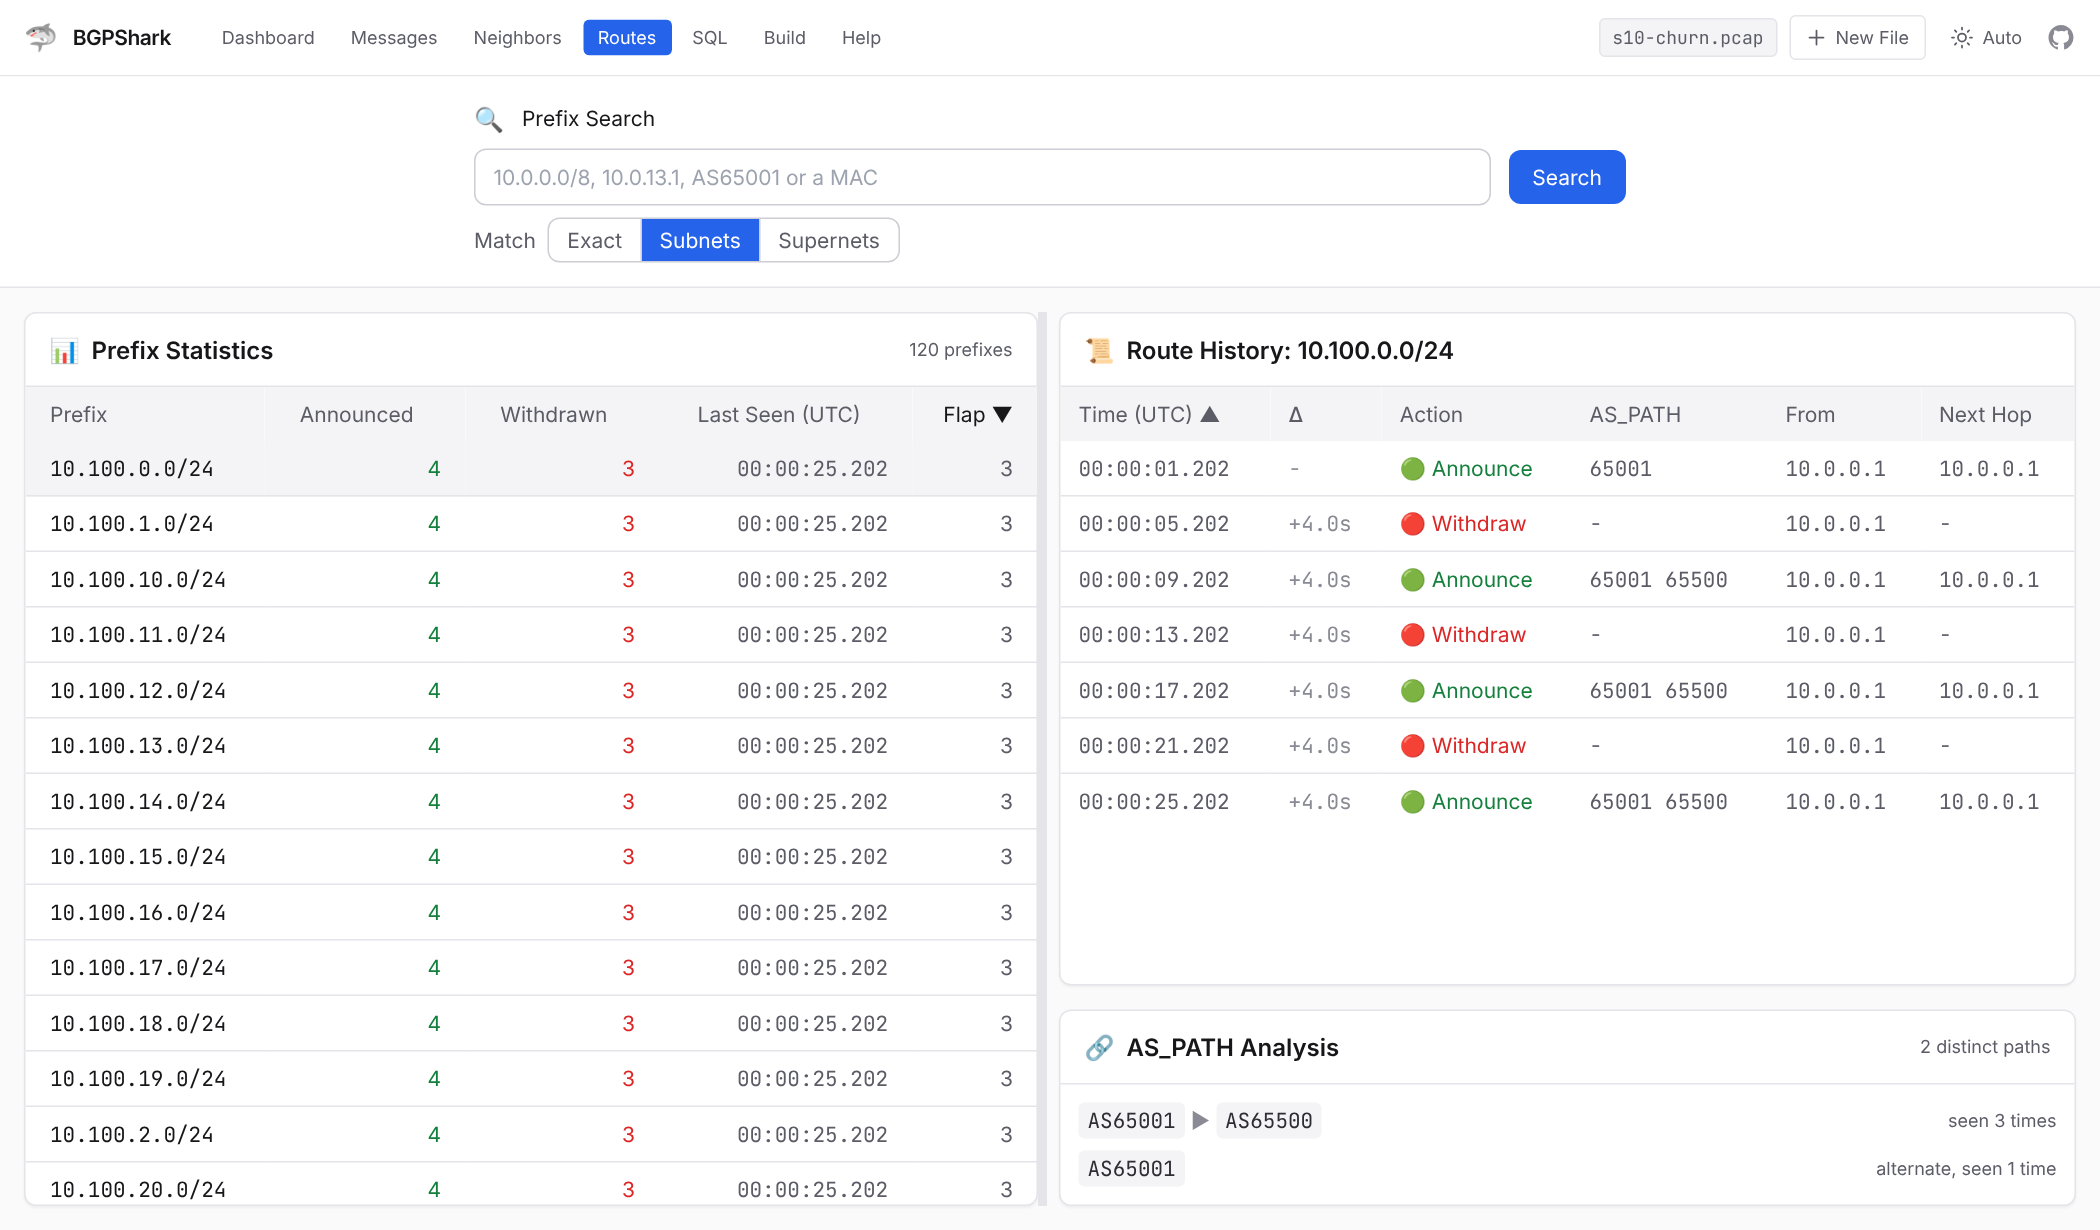
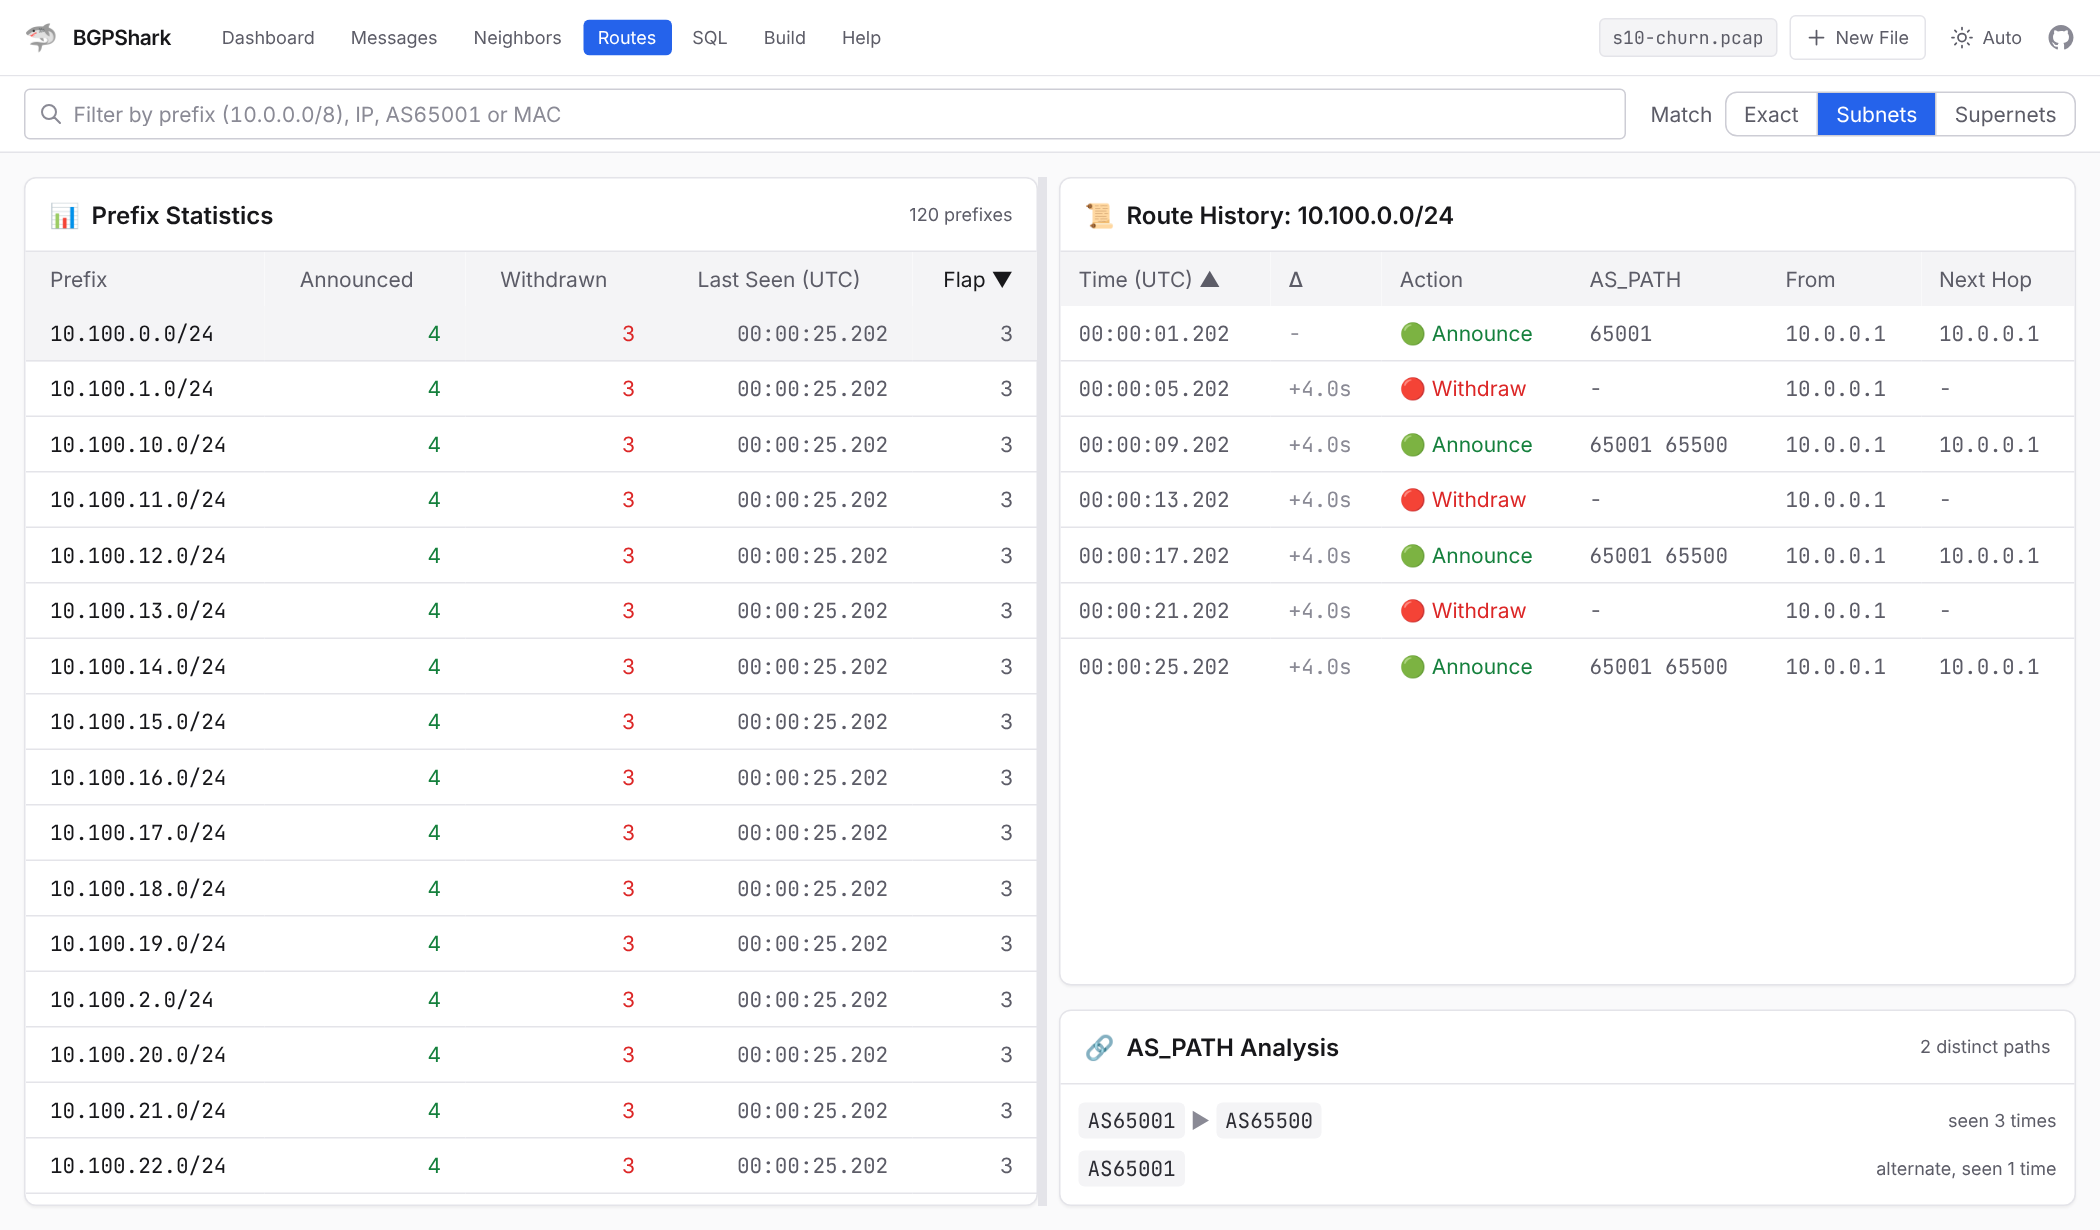
Fold the Routes search into a one-row toolbar
The box already applies itself after a pause in typing, so the "Prefix
Search" heading and the Search button only took up height; Enter still
commits at once. The box gains the search icon and a clear button the other
screens' search boxes have, and Match sits beside it on the same row,
wrapping only on narrow screens.

Closes #88

Claude-Session: https://claude.ai/code/session_016RsczsLRR1XyFcgTKUb7pD

diff --git a/src/pages/RoutesPage.tsx b/src/pages/RoutesPage.tsx
@@ -356,40 +356,58 @@ export function RoutesPage() {
 
   return (
     <div className="flex-1 flex flex-col min-h-0 bg-canvas">
-      {/* Search Bar */}
-      <div className="p-4 bg-surface border-b border-hair">
-        <div className="max-w-3xl mx-auto">
-          <div className="flex items-center gap-3">
-            <span className="text-dim">🔍</span>
-            <span className="text-sm font-medium text-strong">Prefix Search</span>
-          </div>
+      {/* Search Bar — one row: the box applies itself as you type, so it
+          needs neither a heading to explain it nor a button to submit it, and
+          the Match control sits beside the query it qualifies. */}
+      <div className="px-4 py-2 bg-surface border-b border-hair">
+        <div className="flex flex-wrap items-center gap-x-4 gap-y-2">
           <form
+            role="search"
             onSubmit={(e) => {
               e.preventDefault()
               updateParams({ q: searchDraft.trim() || null })
             }}
-            className="mt-2 flex items-center gap-3"
+            className="relative flex-1 min-w-[16rem]"
           >
+            <svg
+              className="absolute left-2.5 top-1/2 -translate-y-1/2 w-4 h-4 text-dim pointer-events-none"
+              fill="none"
+              stroke="currentColor"
+              viewBox="0 0 24 24"
+              aria-hidden="true"
+            >
+              <path strokeLinecap="round" strokeLinejoin="round" strokeWidth={2} d="M21 21l-6-6m2-5a7 7 0 11-14 0 7 7 0 0114 0z" />
+            </svg>
             <input
               type="text"
+              aria-label="Prefix search"
               value={searchDraft}
               onChange={(e) => {
                 setSearchDraft(e.target.value)
-                // Clearing the box should restore the full list without also
-                // having to press Search.
+                // Clearing the box restores the full list at once rather than
+                // after the typing pause.
                 if (!e.target.value.trim()) updateParams({ q: null })
               }}
-              placeholder="10.0.0.0/8, 10.0.13.1, AS65001 or a MAC"
-              className="flex-1 px-3 py-2 border border-hair-strong rounded-lg focus:ring-2 focus:ring-accent focus:border-accent text-sm"
+              placeholder="Filter by prefix (10.0.0.0/8), IP, AS65001 or MAC"
+              className="w-full pl-8 pr-8 py-1.5 border border-hair-strong rounded focus:outline-none focus:ring-2 focus:ring-accent focus:border-transparent text-sm font-mono placeholder:font-sans placeholder:text-dim"
             />
-            <button
-              type="submit"
-              className="px-4 py-2 bg-accent text-accent-fg rounded-lg hover:bg-accent-hover text-sm"
-            >
-              Search
-            </button>
+            {searchDraft && (
+              <button
+                type="button"
+                aria-label="Clear search"
+                onClick={() => {
+                  setSearchDraft('')
+                  updateParams({ q: null })
+                }}
+                className="absolute right-2 top-1/2 -translate-y-1/2 text-dim hover:text-strong"
+              >
+                <svg className="w-4 h-4" fill="none" stroke="currentColor" viewBox="0 0 24 24" aria-hidden="true">
+                  <path strokeLinecap="round" strokeLinejoin="round" strokeWidth={2} d="M6 18L18 6M6 6l12 12" />
+                </svg>
+              </button>
+            )}
           </form>
-          <div className="mt-2 flex items-center gap-4">
+          <div className="flex flex-wrap items-center gap-x-4 gap-y-1">
             {/* Radios rather than a checkbox: these are three different
                 questions about the block typed, not one question with a
                 modifier on it. */}

diff --git a/tests/e2e/route-analysis.e2e.ts b/tests/e2e/route-analysis.e2e.ts
@@ -93,8 +93,23 @@ test.describe('what you are looking at is in the URL', () => {
 
   test('the search is', async ({ page }) => {
     await page.locator('input[placeholder*="10.0.0.0"]').first().fill('10.0.0.0/8')
-    await page.getByRole('button', { name: 'Search' }).click()
+    await page.keyboard.press('Enter')
     await expect(page).toHaveURL(/q=10/)
+  })
+
+  test('the search applies itself, and its toolbar is one row', async ({ page }) => {
+    const box = page.getByRole('textbox', { name: 'Prefix search' })
+    await box.fill('10.0.0.0/8')
+    // No Search button to press: the pause in typing is the submit.
+    await expect(page.getByRole('button', { name: 'Search', exact: true })).toHaveCount(0)
+    await expect(page).toHaveURL(/q=10/)
+
+    const match = page.getByRole('radiogroup', { name: 'Match' })
+    const [boxBox, matchBox] = [await box.boundingBox(), await match.boundingBox()]
+    expect(Math.abs(boxBox!.y + boxBox!.height / 2 - (matchBox!.y + matchBox!.height / 2))).toBeLessThan(8)
+
+    await page.getByRole('button', { name: 'Clear search' }).click()
+    await expect(page).not.toHaveURL(/q=/)
   })
 
   test('the selection is', async ({ page }) => {
@@ -110,7 +125,7 @@ test.describe('what you are looking at is in the URL', () => {
   test('a link restores all of it in a session that never set it', async ({ page, context }) => {
     await page.getByRole('button', { name: /^Announced/ }).click()
     await page.locator('input[placeholder*="10.0.0.0"]').first().fill('10.0.0.0/8')
-    await page.getByRole('button', { name: 'Search' }).click()
+    await page.keyboard.press('Enter')
     await page.locator('tbody tr').first().click()
     await expect(page).toHaveURL(/prefix=/)
     const shared = page.url()

diff --git a/tests/e2e/prefix-matching.e2e.ts b/tests/e2e/prefix-matching.e2e.ts
@@ -57,7 +57,7 @@ test.describe('prefix matching', () => {
     await page.getByRole('link', { name: 'Routes', exact: true }).click()
     await expect(page.getByRole('heading', { name: 'Prefix Statistics' })).toBeVisible()
     await page.locator('input[placeholder*="10.0.0.0"]').first().fill('10.0.0.0/8')
-    await page.getByRole('button', { name: 'Search' }).click()
+    await page.keyboard.press('Enter')
     await expect(page.getByText(/\d+ prefixes/)).toBeVisible()
     expect(await prefixCount(page)).toBeGreaterThan(0)
   })
@@ -72,7 +72,7 @@ test.describe('prefix search on the route screen', () => {
 
   const search = async (page: import('@playwright/test').Page, text: string) => {
     await page.locator('input[placeholder*="10.0.0.0"]').first().fill(text)
-    await page.getByRole('button', { name: 'Search' }).click()
+    await page.keyboard.press('Enter')
     await page.waitForTimeout(400)
     return prefixCount(page)
   }
